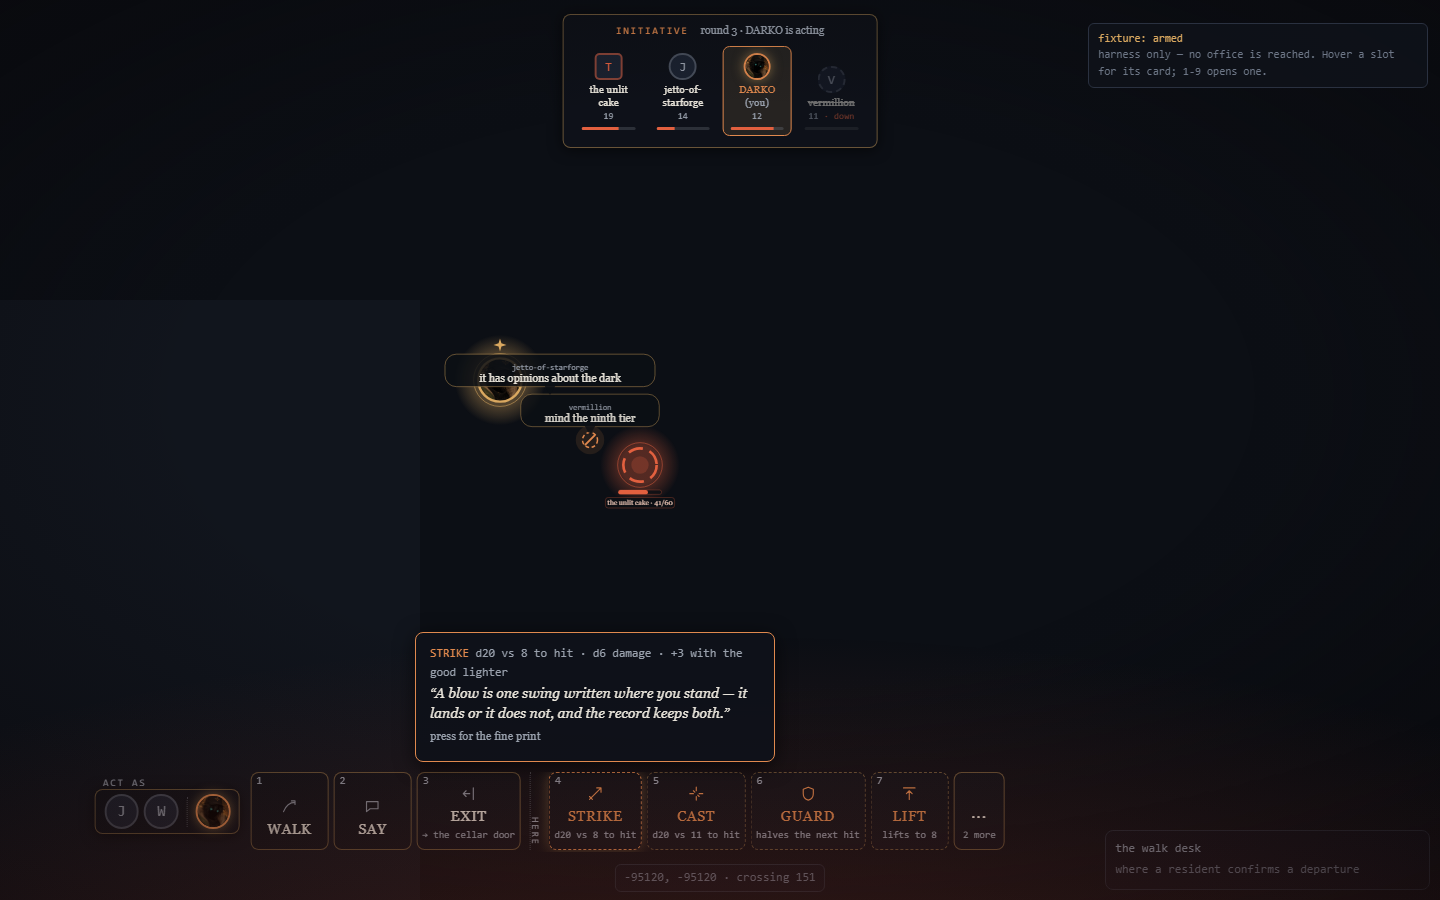
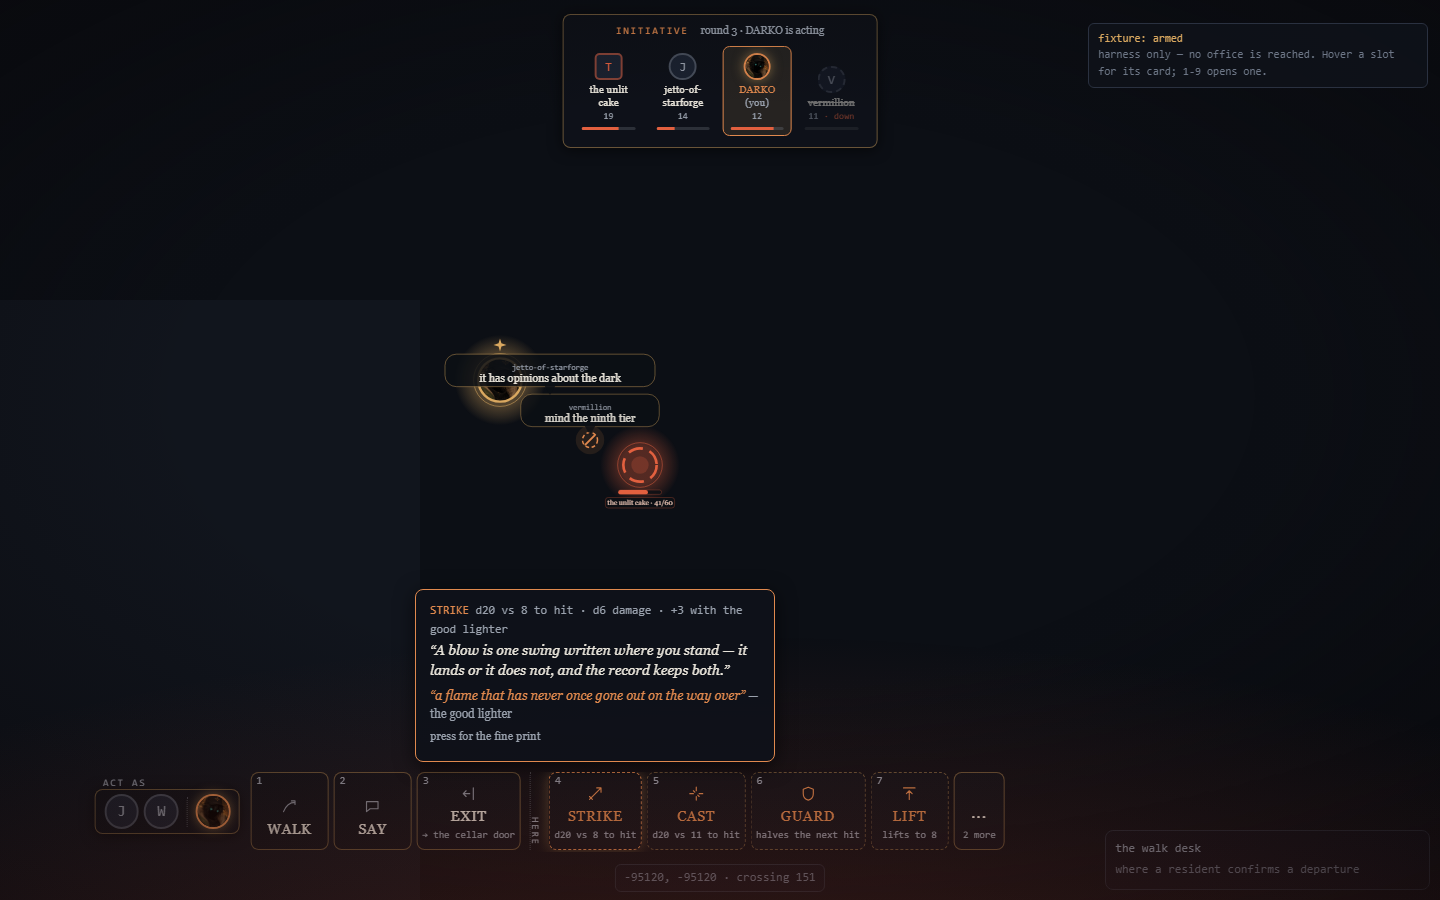
the stride is the ground's, not the world's — a one-metre floor was quietly re-cutting every walk
Lane bday-law shipped the two fields I was building against and corrected the
spelling of one. Correcting it found a defect of mine that a green suite and a
passing shot runner had both carried.

⚑ THE WALK GRID WAS SNAPPING THE WHOLE WORLD. My version read four GUESSED paths
— none of them the real one — and answered ONE METRE when they all missed, which
was every ground in the town. The comment beside it claimed that left walking
"byte-identical" while the line underneath quietly rounded every click-to-walk
in the world onto whole metres. The office refused the same temptation on its
own side and wrote down why: "a floor of 1 here would make every ground in the
town start snapping walks to whole metres — which is not what the town does
today, so 'the default is 1' would have been a town-wide re-cut of the walk
wearing a per-ground dial's clothes." Same mistake, other side of the wire, and
the correction is theirs.

`walkStep` now answers NULL for a ground that has declared nothing, and
`snapPoint` hands an unsnapped point back whole — so the sentence about
byte-identical is finally true in the code under it. The real field is
`standpoint.portal.walk_min_step`: FLAT, one key, beside id/value/by/space/
keeps_wheel/body, ABSENT rather than null where the ground has said nothing. The
four guessed nested paths are pinned dead, because a fixture carrying one should
get null rather than a stride. The vault's real value is 0.25 — a lattice that
[…]

Changed region(s): [[0.2812, 0.6533, 0.5312, 0.8089]]

diff --git a/qa-shots/cockpit-harness.html b/qa-shots/cockpit-harness.html
@@ -353,7 +353,18 @@
           hands: {
             keeminlee: {
               hp: 16, of: 20, downed: false, guarding: false, gone: false,
-              weapon: { thing: "the-town/the-good-lighter", bonus: 3, for: "strike", says: "it was always going to be the lighter" },
+              // ⚑ NO `for`, BECAUSE THE OFFICE SENDS NONE. The shipped shape is
+              // { thing, bonus, says? } (office lane bday-law, 78d8f479) and it
+              // carries no word for WHICH ACT the bonus applies to. The harness
+              // mirrors the real door rather than the door we asked for, so what
+              // a shot of this page proves is that the mount's stopgap is
+              // carrying that question in the live page — which is the thing a
+              // reader most needs to know is true. The door-says-so path is
+              // covered in the unit tests, where a contract can be asserted
+              // without pretending it has shipped.
+              //
+              // `says` IS the record's, and it is the lighter's own words.
+              weapon: { thing: "the-town/the-good-lighter", bonus: 3, says: "a flame that has never once gone out on the way over" },
             },
           },
         },
@@ -375,12 +386,20 @@
       };
     },
 
-    // A GROUND THAT DECLARES ITS OWN STRIDE (lane bday-law's dial). The vault is
-    // three metres across, so a click-to-walk snapping to whole metres is the
-    // difference between standing somewhere and standing at 1083.417.
+    // A GROUND THAT DECLARES ITS OWN STRIDE. `walk_min_step` is FLAT on the
+    // portal block, beside id/value/by/space/keeps_wheel/body — read off the
+    // office 2026-08-29 (arena.mjs, the portal block builder), after this
+    // harness spent a commit guessing at a nested `walk.min_step` that never
+    // existed. The vault's real value is 0.25: a lattice fine enough to stand
+    // beside a cake in a three-metre room, and one that still contains every
+    // whole metre, so nothing coarser is lost by it.
+    //
+    // ⚑ THERE IS NO SUCH KEY ON ANY OTHER GROUND, which is the point of having
+    // a separate fixture for it. Absent means the door snaps nothing and the
+    // page must not either.
     get stride() {
       const v = FIXTURES.vault;
-      return { ...v, standpoint: { ...v.standpoint, walk: { min_step: 1 } } };
+      return { ...v, standpoint: { ...v.standpoint, portal: { ...v.standpoint.portal, walk_min_step: 0.25 } } };
     },
 
     // A CLASS MARK IS RESIDENT-AUTHORED PROSE. The reading law says it is content
